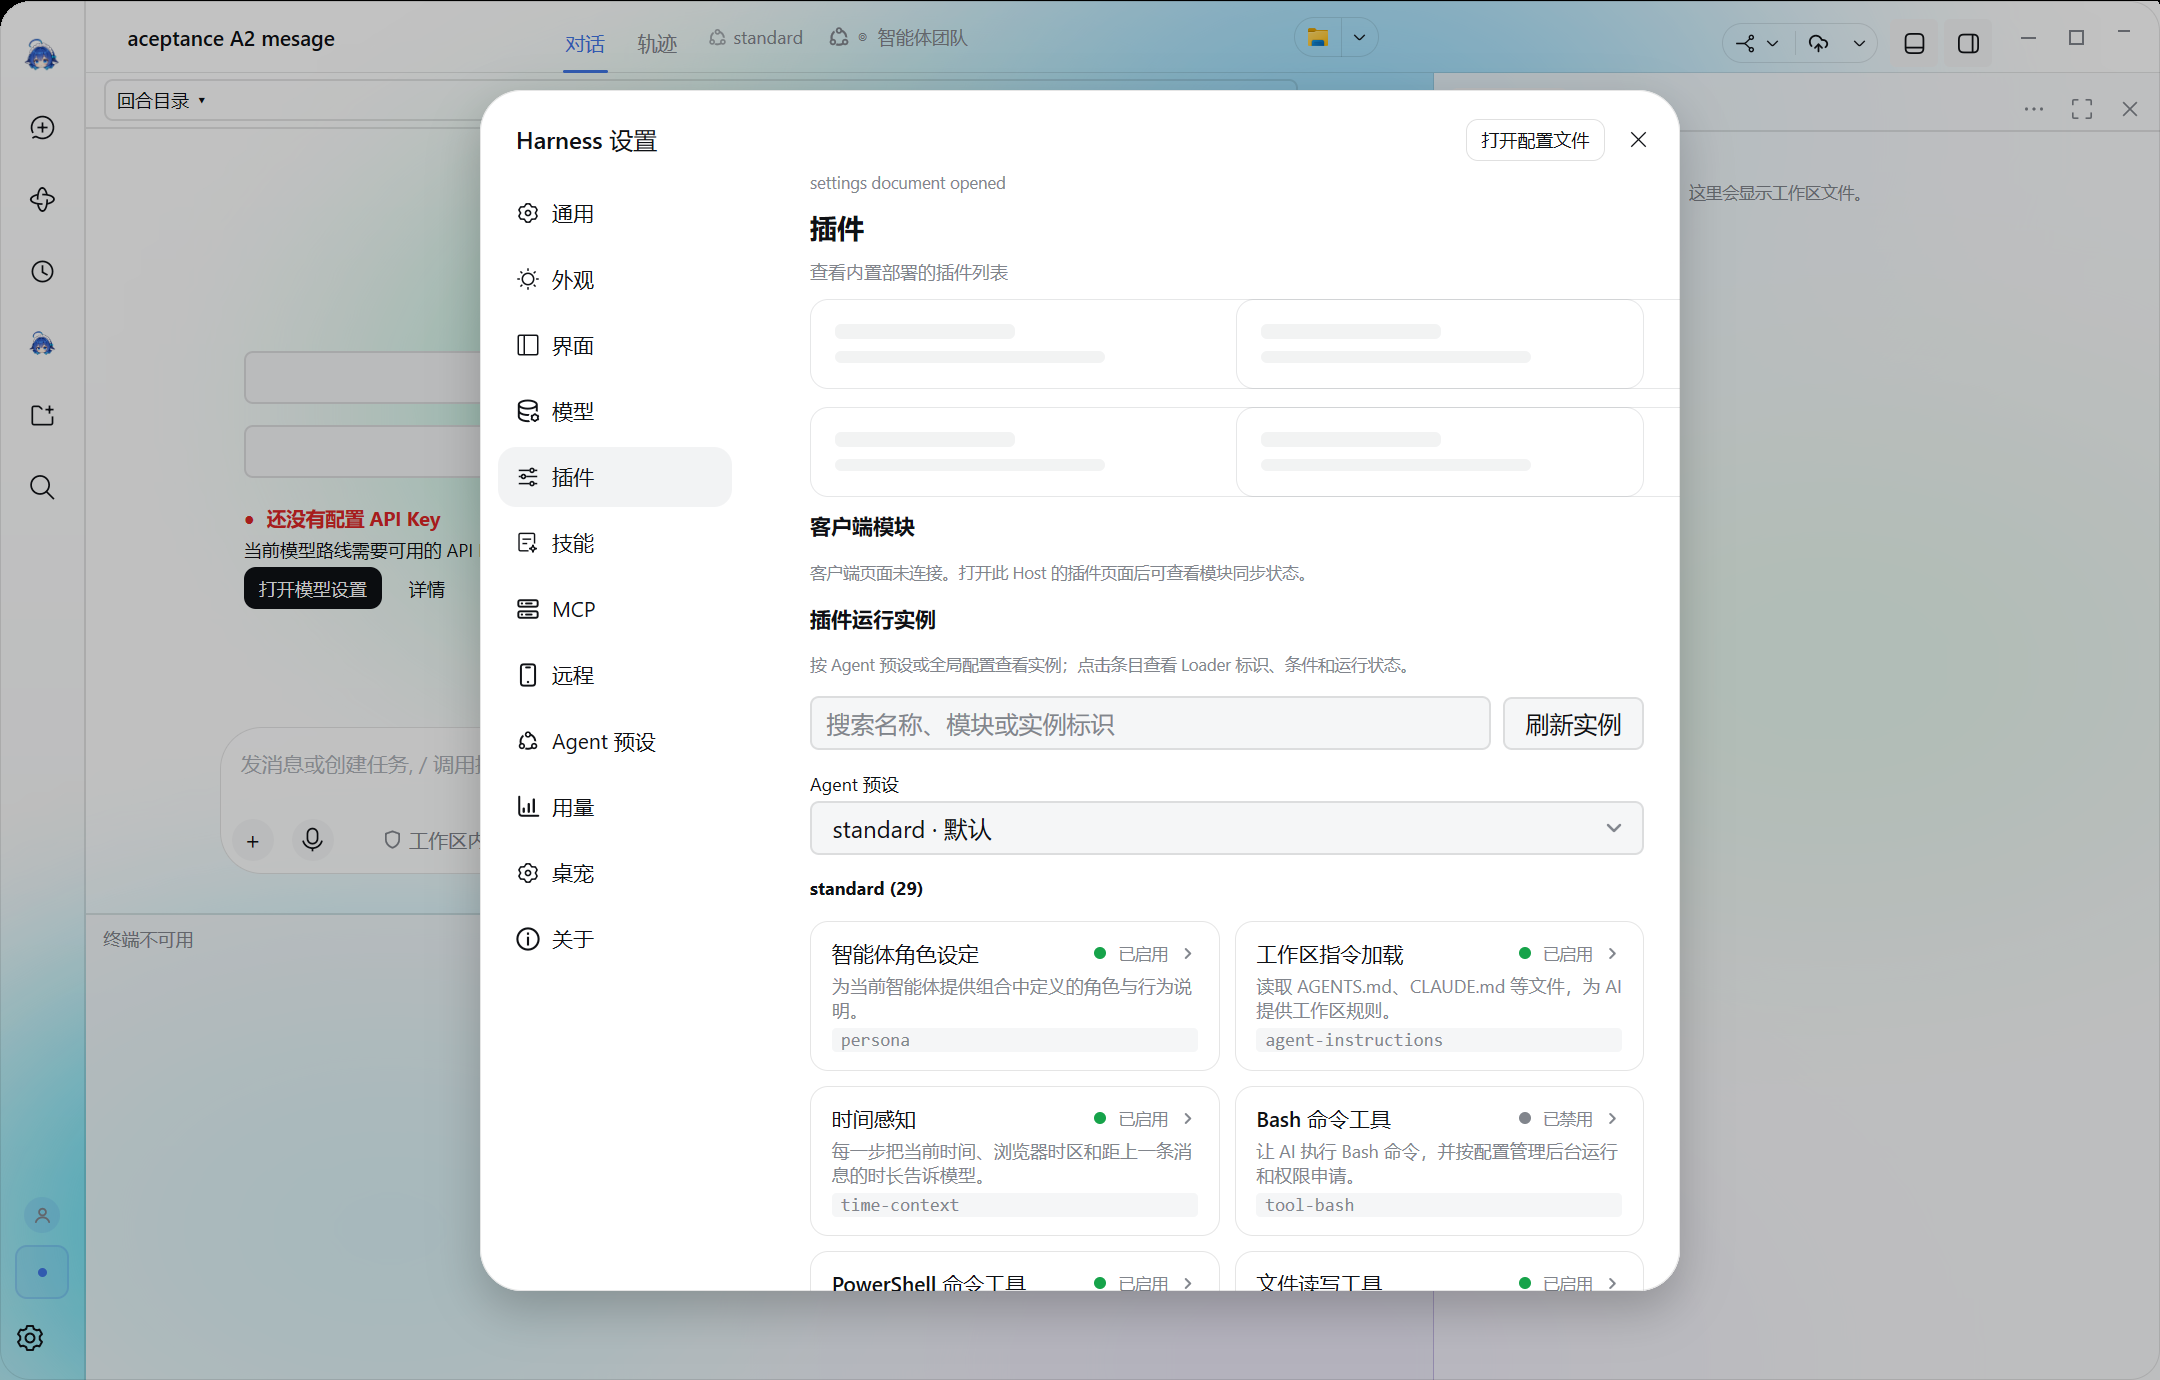
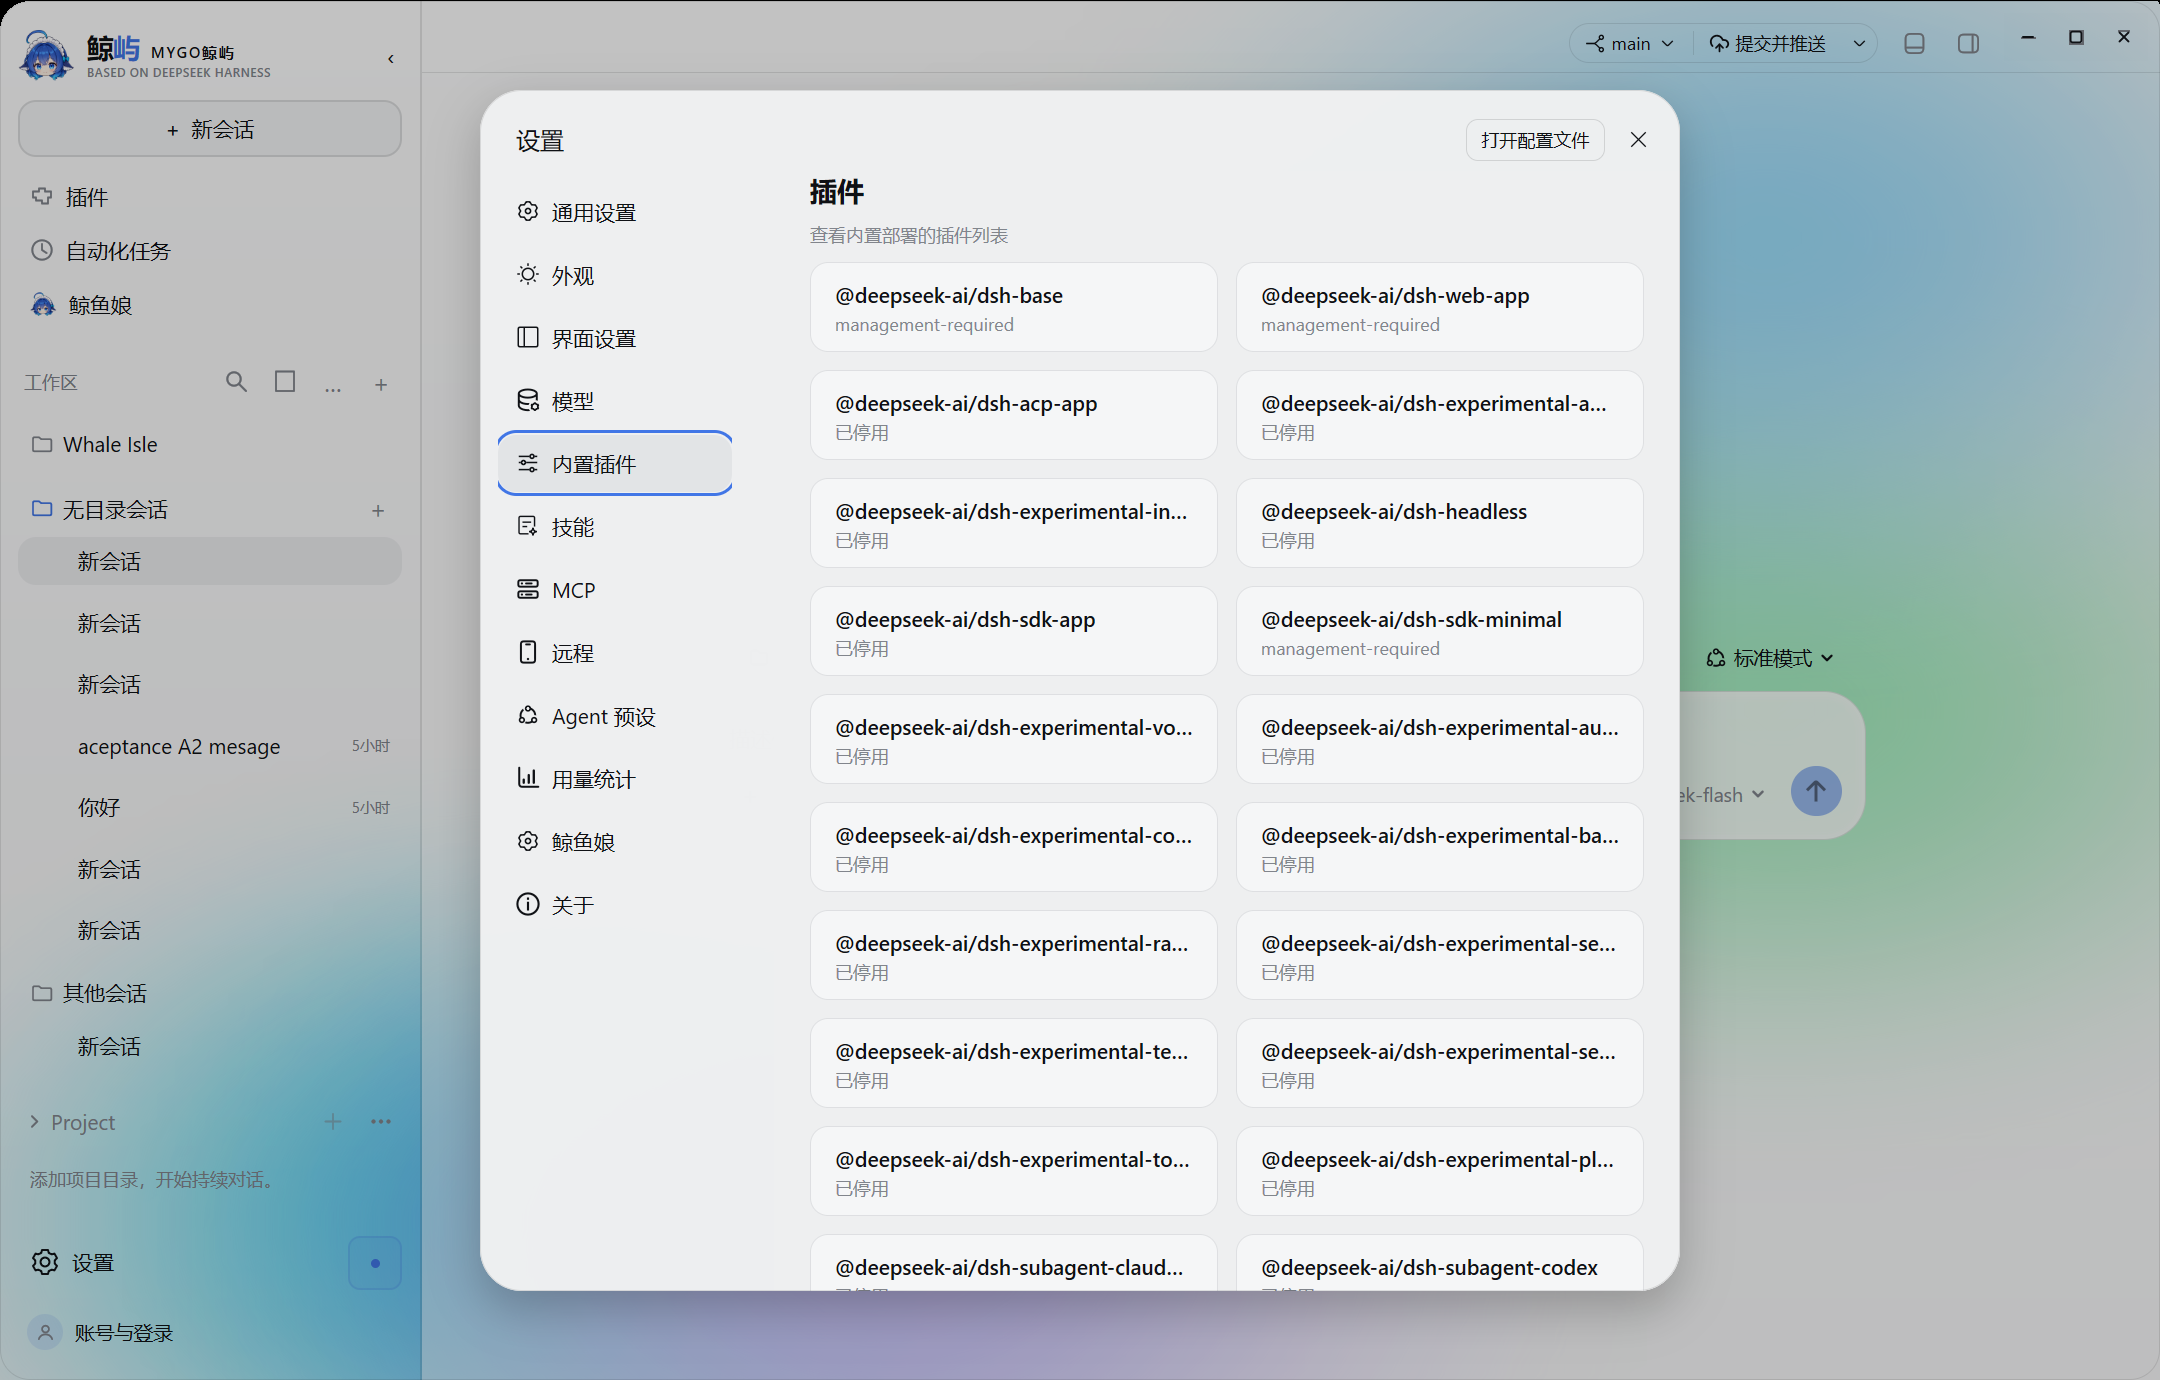
fix: keep built-in plugin cards inside their grid columns
The settings plugin inventory cards (and loading skeletons) called FillWidth
inside a Grid cell, so each card was laid out at the whole grid width and the
right column was clipped. Cards now inherit their cell width; long package names
ellipsize instead of running past the panel. A geometry test covers four rows at
760 DIP.

Live screenshot settings-live/plugins.png updated.

diff --git a/internal/ui/settings/plugins.go b/internal/ui/settings/plugins.go
@@ -150,7 +150,7 @@ func builtinPluginGrid(c *ui.Context, a *PluginsAccess, fg, muted ui.Color) {
 		grid := ui.Grid(c.Key("builtin-plugins-loading")).FillWidth().MinWidth(0).Gap(12)
 		grid.Columns(2).Children(func() {
 			for index := 0; index < 4; index++ {
-				ui.Column(c.Key(fmt.Sprintf("builtin-skeleton-%d", index))).FillWidth().MinWidth(0).Height(60).Gap(8).Padding(12, 16).
+				ui.Column(c.Key(fmt.Sprintf("builtin-skeleton-%d", index))).MinWidth(0).Height(60).Gap(8).Padding(12, 16).
 					Radius(12).Border(.5, ui.RGBA(muted.R, muted.G, muted.B, .2)).Justify(ui.Center).Children(func() {
 					ui.Box(c).Width(120).Height(10).Shrink(0).Radius(4).Background(ui.RGBA(muted.R, muted.G, muted.B, .1))
 					ui.Box(c).Width(180).Height(8).Shrink(0).Radius(4).Background(ui.RGBA(muted.R, muted.G, muted.B, .1))
@@ -170,7 +170,7 @@ func builtinPluginGrid(c *ui.Context, a *PluginsAccess, fg, muted ui.Color) {
 			if plugin.ReadOnlyReason != "" {
 				detail = plugin.ReadOnlyReason
 			}
-			card := ui.Column(c.Key("builtin-plugin/" + plugin.Name)).FillWidth().MinWidth(0).Height(60).Gap(2).Padding(12, 16).
+			card := ui.Column(c.Key("builtin-plugin/" + plugin.Name)).MinWidth(0).Height(60).Gap(2).Padding(12, 16).
 				Radius(12).Background(c.Theme().Surface).Border(.5, ui.RGBA(muted.R, muted.G, muted.B, .2)).Justify(ui.Center)
 			card.Children(func() {
 				ui.Text(c, plugin.Name).FillWidth().FontSize(fonttheme.InterfaceSize(14)).FontWeight(600).TextColor(fg).SingleLine().Ellipsis("…")

diff --git a/internal/ui/settings/plugin_grid_geometry_test.go b/internal/ui/settings/plugin_grid_geometry_test.go
@@ -1,0 +1,40 @@
+package settings
+
+import (
+	"testing"
+
+	"github.com/egoist/mygo/ui"
+
+	"whaleisle/internal/ui/i18n"
+)
+
+// The built-in plugin cards used FillWidth inside a Grid cell, so each card took
+// the whole grid width and the second column was clipped. Cards must stay in
+// their columns and name text must remain inside the pane.
+func TestBuiltinPluginCardsStayInTheirColumns(t *testing.T) {
+	i18n.SetLocale(i18n.LocaleEN)
+	t.Cleanup(func() { i18n.SetLocale(i18n.DefaultLocale) })
+
+	rows := []PluginRow{
+		{Name: "@deepseek-ai/dsh-base"},
+		{Name: "@deepseek-ai/dsh-web-app"},
+		{Name: "@deepseek-ai/dsh-experimental-agent-team"},
+		{Name: "@deepseek-ai/dsh-experimental-inspector"},
+	}
+	const width = 760
+	tt := ui.NewTester(func(c *ui.Context) {
+		ui.Column(c).FillWidth().MinWidth(0).Padding(16).Children(func() {
+			builtinPluginGrid(c, &PluginsAccess{Rows: rows}, c.Theme().Text, c.Theme().TextMuted)
+		})
+	}, width, 600)
+	tt.Frame()
+	for _, row := range rows {
+		text, ok := tt.Find(row.Name)
+		if !ok {
+			t.Fatalf("plugin name %q missing", row.Name)
+		}
+		if text.X < 16 || text.X+text.W > width-16+0.5 {
+			t.Fatalf("plugin %q escapes the pane: %+v", row.Name, text)
+		}
+	}
+}

diff --git a/docs/review-20261020/acceptance-matrix.md b/docs/review-20261020/acceptance-matrix.md
@@ -196,3 +196,5 @@ settings.ModalView → SectionContent → paintMainContent("")
 - E3 实机补充（pass37）：设置页可切换桌宠开关并持久化；当前直接运行构建未创建 MyGo鲸屿 companion 窗口，且 Companion.Error 为空。设置页已补「便携/测试模式不显示桌面形象」和 Companion 错误展示，避免静默无反应。
 
 - D1 实机补充（pass38）：点「新建自动化任务」后进入新会话，并显示「在会话中描述要定时的任务，Agent 会创建并显示在此页。」；当前 schedule store 无本地 Create RPC，新建确实由会话/Agent 完成。
+
+- 设置·内置插件网格修复（pass39）：卡片在 Grid 单元格里误用 FillWidth，按整行宽布局导致右列被裁切；移除后两列各占一半、长包名省略号收口，新增 TestBuiltinPluginCardsStayInTheirColumns，实机截图 settings-live/plugins.png。
